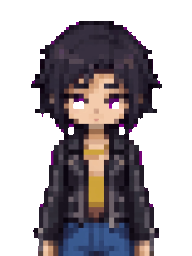
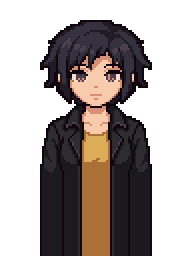
Stage Actor 公開 b171a6c
Claude-Session: https://claude.ai/code/session_01M9WDWLmfs3XmwmJE2nQzhd

diff --git a/stage-actor/index.html b/stage-actor/index.html
@@ -5,18 +5,18 @@
   <meta name="viewport" content="width=device-width, initial-scale=1, viewport-fit=cover, user-scalable=no">
   <meta name="theme-color" content="#120c10">
   <title>NONO Stage Actor</title>
-  <link rel="manifest" href="manifest.webmanifest?v=f7e513e">
-  <link rel="apple-touch-icon" href="icons/icon-1024.png?v=f7e513e">
-  <link rel="icon" href="icons/icon-192.png?v=f7e513e">
+  <link rel="manifest" href="manifest.webmanifest?v=b171a6c">
+  <link rel="apple-touch-icon" href="icons/icon-1024.png?v=b171a6c">
+  <link rel="icon" href="icons/icon-192.png?v=b171a6c">
   <meta name="apple-mobile-web-app-capable" content="yes">
   <meta name="apple-mobile-web-app-title" content="Stage Actor">
-  <meta name="stage-version" content="f7e513e">
-  <link rel="stylesheet" href="css/stage.css?v=f7e513e">
+  <meta name="stage-version" content="b171a6c">
+  <link rel="stylesheet" href="css/stage.css?v=b171a6c">
 </head>
 <body>
   <div id="app">
     <section id="title" class="screen">
-      <h1 class="logo"><img src="img/title-logo.png?v=f7e513e" alt="NONO Stage Actor" width="520" height="484"></h1>
+      <h1 class="logo"><img src="img/title-logo.png?v=b171a6c" alt="NONO Stage Actor" width="520" height="484"></h1>
       <p class="sub">演目を選んでください</p>
       <ul id="work-list"></ul>
     </section>
@@ -32,7 +32,7 @@
       </div>
       <div id="choices" hidden><p class="prompt"></p><div class="options"></div></div>
       <div id="curtain">
-        <div class="art"><div class="panel l"></div><div class="panel r"></div><img class="frame" src="theater/frame.png?v=f7e513e" alt=""></div>
+        <div class="art"><div class="panel l"></div><div class="panel r"></div><img class="frame" src="theater/frame.png?v=b171a6c" alt=""></div>
         <div class="playbill"></div>
       </div>
       <div id="progress" role="progressbar" aria-label="進み具合" aria-valuemin="0" aria-valuemax="100"><div class="fill"></div></div>
@@ -41,6 +41,6 @@
 
     <div id="error" hidden></div>
   </div>
-  <script type="module" src="js/main.js?v=f7e513e"></script>
+  <script type="module" src="js/main.js?v=b171a6c"></script>
 </body>
 </html>

diff --git a/stage-actor/css/stage.css b/stage-actor/css/stage.css
@@ -93,7 +93,7 @@ img { image-rendering: pixelated; image-rendering: crisp-edges; }
 /* 幕と額縁は 2048×1152 の舞台座標で描き、画面を覆う倍率で拡大する（js の layoutCurtain） */
 #curtain .art { position: absolute; left: 0; top: 0; width: 2048px; height: 1152px; transform-origin: 0 0; }
 #curtain .panel { position: absolute; top: 0; width: 1024px; height: 1152px; image-rendering: pixelated;
-  background: url(../theater/curtain.png?v=f7e513e) no-repeat; background-size: 2048px 1152px;
+  background: url(../theater/curtain.png?v=b171a6c) no-repeat; background-size: 2048px 1152px;
   transition: transform 1.8s cubic-bezier(.6, .05, .3, 1); }
 #curtain .l { left: 0; background-position: 0 0; }
 #curtain .r { left: 1024px; background-position: -1024px 0; }

diff --git a/stage-actor/js/main.js b/stage-actor/js/main.js
@@ -1,6 +1,6 @@
 // 画面表示と操作。状態は engine.js の Session が持ち、ここは毎回それを描き直すだけ。
-import { Session } from './engine.js?v=f7e513e';
-import { indexActors, resolveLayers, layersUsedBy } from './faces.js?v=f7e513e';
+import { Session } from './engine.js?v=b171a6c';
+import { indexActors, resolveLayers, layersUsedBy } from './faces.js?v=b171a6c';
 
 // 公開のたびに tools/deploy_playground.py が版（コミット）を入れる。URLに付けて、古いファイルの使い回しを防ぐ
 const V = document.querySelector('meta[name="stage-version"]')?.content || 'dev';
